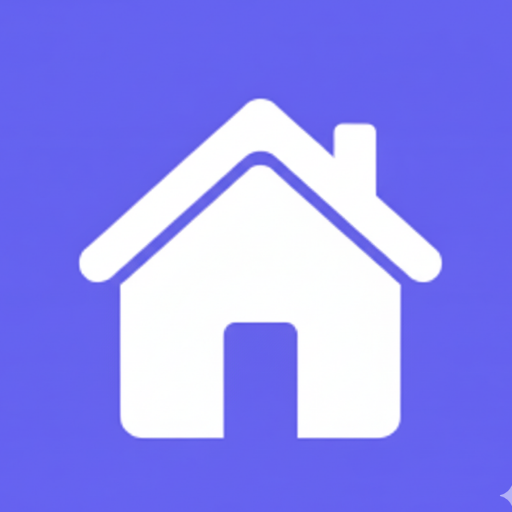
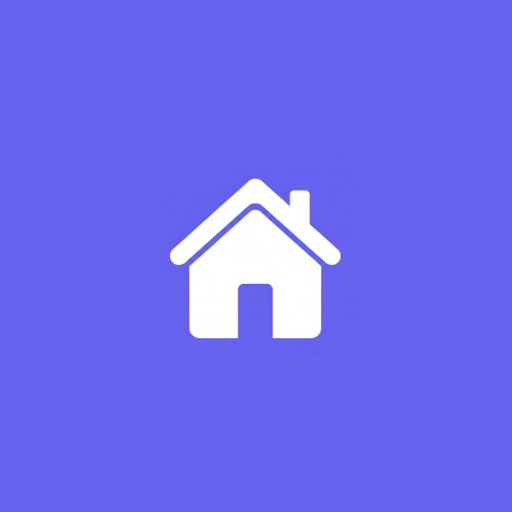
new aab working

Changed region(s): [[0.1562, 0.1875, 0.875, 0.875], [0.9688, 0.9375, 1.0, 1.0]]

diff --git a/frontend/zelton_mobile/ICON_FIX_GUIDE.md b/frontend/zelton_mobile/ICON_FIX_GUIDE.md
@@ -1,0 +1,35 @@
+# Fixing Icon Cropping Issue
+
+## Problem
+The house icon is being cropped at the top because Android adaptive icons only show the center **66%** of the foreground image (the "safe zone"). Content near the edges gets cropped on circular/square icons.
+
+## Solution
+
+### Option 1: Add Padding to Your Icon (RECOMMENDED)
+Your `icon.png` file needs padding around the house:
+
+1. Open your `assets/icon.png` in an image editor (Photoshop, GIMP, etc.)
+2. Add **transparent or purple padding** around the edges:
+   - The house should be in the **center 66%** of the image
+   - For a 1024x1024 icon, the house should be within a 675x675 pixel area in the center
+3. Save the updated icon
+4. Run `.\fix-icon-cropping.bat` to rebuild
+
+### Option 2: Use Adaptive Icon Foreground/Background
+If your icon.png already has proper padding, the current setup should work after regenerating.
+
+## Current Configuration
+- **Background Color**: Purple (#9B7EDE) - matches your house icon background
+- **Foreground Image**: `assets/icon.png` (your house icon)
+
+## How to Test
+1. Run `.\fix-icon-cropping.bat`
+2. Install the APK on your device
+3. Check if the entire house (including roof peak) is visible
+
+## Icon Specifications
+- **Recommended Size**: 1024x1024 pixels
+- **Safe Zone**: Center 66% (house should be within 675x675 area)
+- **Format**: PNG with transparency
+- **Background**: Purple (#9B7EDE) for adaptive icon background
+
